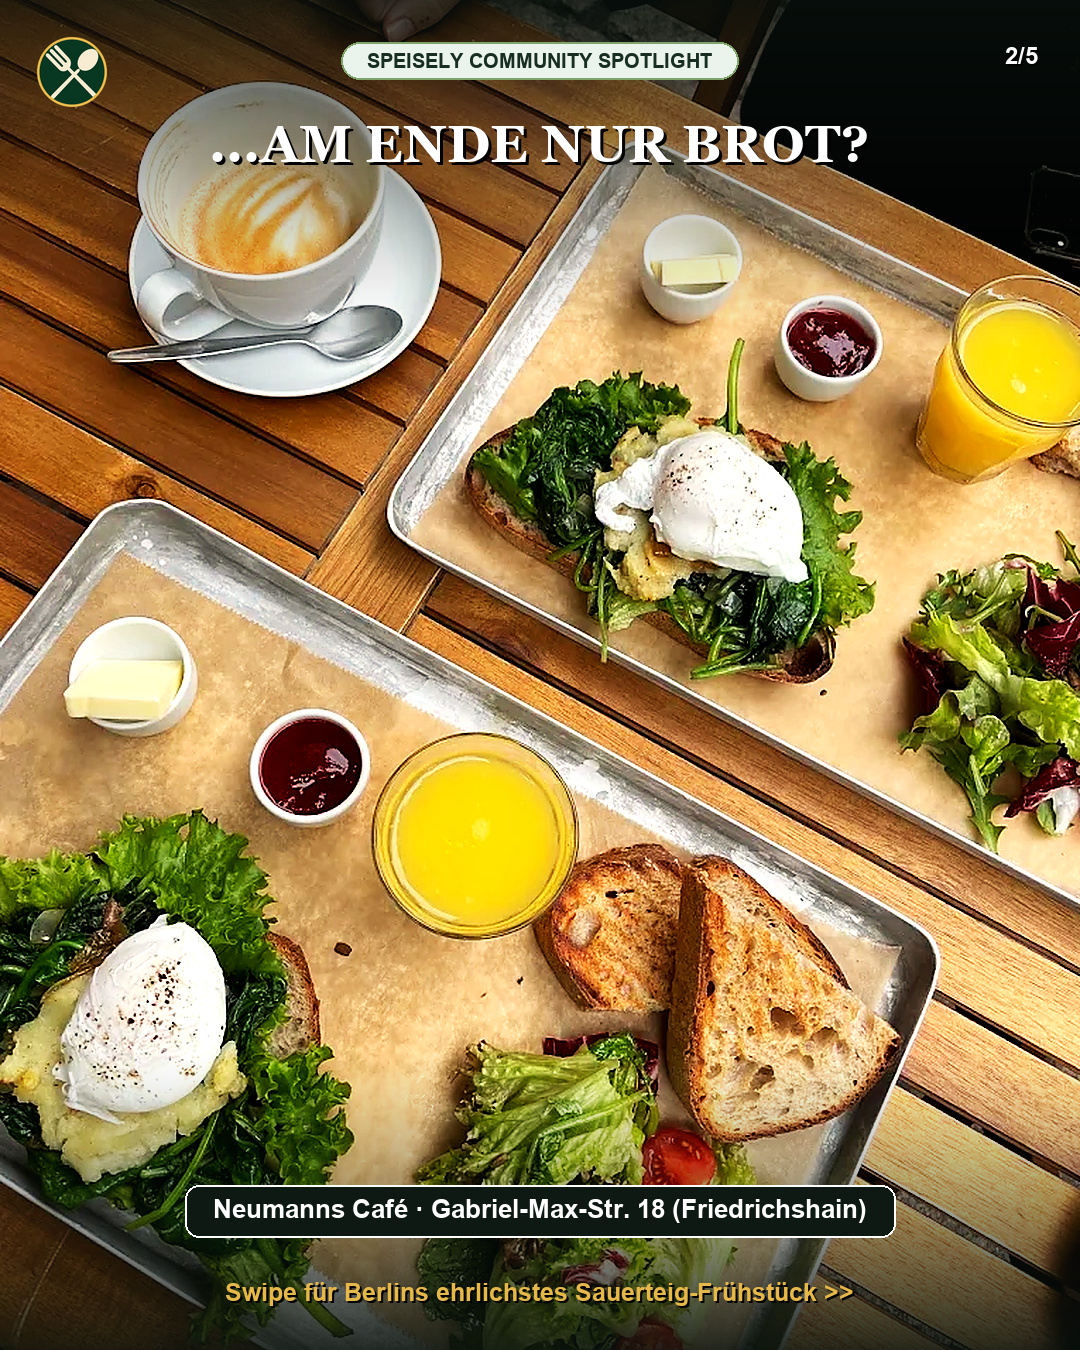
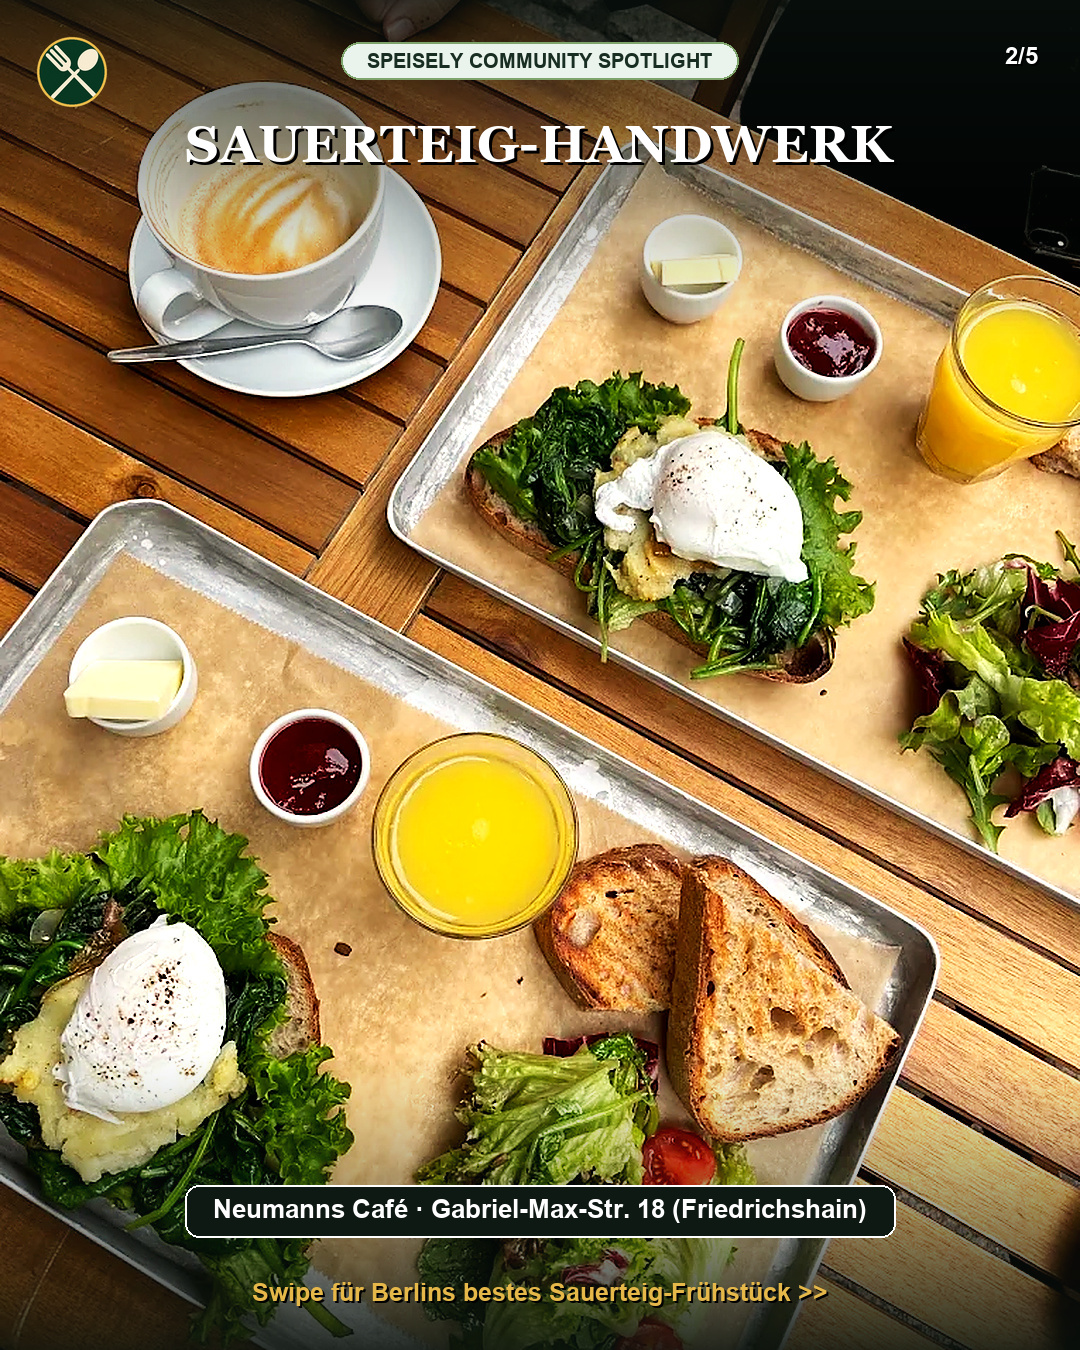
fix(magazin): replace ambiguous 'just bread' headline with positive artisanal sourdough headline

Changed region(s): [[0.1528, 0.0933, 0.825, 0.1244], [0.2139, 0.9333, 0.7944, 0.9644]]

diff --git a/src/routes/magazin.community.neumanns-cafe-berlin.tsx b/src/routes/magazin.community.neumanns-cafe-berlin.tsx
@@ -38,7 +38,7 @@ export const Route = createFileRoute("/magazin/community/neumanns-cafe-berlin")(
       {
         property: "og:title",
         content:
-          "„…am Ende ist es nur Brot“: Frühstück im Neumanns Café Berlin-Friedrichshain — Speisely Community Story",
+          "Neumanns Café Berlin-Friedrichshain: Sauerteig-Bäckerei, Frühstück & Weinbar — Speisely Community Story",
       },
       {
         property: "og:description",
@@ -103,9 +103,9 @@ export const Route = createFileRoute("/magazin/community/neumanns-cafe-berlin")(
             {
               "@type": "Article",
               headline:
-                "„…am Ende ist es nur Brot“: Warum das Neumanns Café am Boxhagener Platz Berlins ehrlichstes Sauerteig-Frühstück serviert",
+                "Neumanns Café Berlin: Warum die eigene Sauerteig-Bäckerei am Boxhagener Platz Friedrichshains bestes Frühstück serviert",
               alternateName:
-                "...in the end, it's just bread: Why Neumanns Café by Boxhagener Platz Serves Berlin's Most Honest Sourdough Breakfast",
+                "Neumanns Café Berlin: Why This Artisanal Sourdough Bakery by Boxhagener Platz Serves Friedrichshain's Finest Breakfast",
               description:
                 "Ein Speisely Community-Frühstücksbericht über das Neumanns Café in Berlin-Friedrichshain (Gabriel-Max-Straße 18): Hausgebackenes Sauerteigbrot, pochierte Eier auf Blattspinat, spanische Tortilla, Karotten-Süßkartoffel-Stulle mit Pekannüssen & Ziegenkäse sowie Kaffee der Andraschko Kaffeemanufaktur.",
               image: [
@@ -269,14 +269,14 @@ function NeumannsCafeBerlinArticle() {
 
           <h1 className="font-display text-3xl sm:text-5xl font-bold text-forest leading-[1.12] tracking-tight mb-5">
             {isDe
-              ? "„…am Ende ist es nur Brot“: Warum das Neumanns Café am Boxhagener Platz Berlins ehrlichstes Sauerteig-Frühstück serviert"
-              : "“...in the end, it’s just bread”: Why Neumanns Café by Boxhagener Platz Serves Berlin’s Most Honest Sourdough Breakfast"}
+              ? "Neumanns Café Berlin: Warum die eigene Sauerteig-Bäckerei am Boxhagener Platz Friedrichshains bestes Frühstück serviert"
+              : "Neumanns Café Berlin: Why This Artisanal Sourdough Bakery by Boxhagener Platz Serves Friedrichshain’s Finest Breakfast"}
           </h1>
 
           <p className="text-lg sm:text-xl text-forest/80 leading-relaxed font-normal mb-6">
             {isDe
-              ? "Sechs Worte Berliner Understatement, hinter denen tagelange Fermentation steckt: In der Gabriel-Max-Straße 18 zeigt das Neumanns jeden Morgen, welche Strahlkraft ein Frühstück entfaltet, wenn das Sauerteigbrot aus der eigenen Backstube stammt – begleitet von pochierten Bio-Eiern auf jungem Blattspinat, spanischer Kartoffel-Tortilla, gerösteten Pekannüssen, französischem Ziegenkäse und Espresso der Berliner Kaffeemanufaktur Andraschko."
-              : "Six words of classic Berlin understatement backed by days of wild fermentation: At Gabriel-Max-Straße 18, Neumanns proves every morning what happens when breakfast is built on sourdough from its own bakery—paired with poached organic eggs over wilted spinach, Spanish potato tortilla, toasted pecans, French chèvre, and espresso roasted in Berlin by Andraschko Kaffeemanufaktur."}
+              ? "Wahres Bäckerhandwerk schmeckt man ab dem ersten Bissen: In der Gabriel-Max-Straße 18 zeigt das Neumanns jeden Morgen, welche Strahlkraft ein Frühstück entfaltet, wenn das langzeitfermentierte Sauerteigbrot aus der eigenen Backstube stammt – begleitet von pochierten Bio-Eiern auf jungem Blattspinat, spanischer Kartoffel-Tortilla, gerösteten Pekannüssen, französischem Ziegenkäse und Espresso der Berliner Kaffeemanufaktur Andraschko."
+              : "True bakery craft is unmistakable from the very first bite: At Gabriel-Max-Straße 18, Neumanns proves every morning how extraordinary breakfast becomes when built on slow-fermented sourdough from its own bakery—paired with poached organic eggs over wilted spinach, Spanish potato tortilla, toasted pecans, French chèvre, and espresso roasted in Berlin by Andraschko Kaffeemanufaktur."}
           </p>
 
           {/* Editorial Disclosure Banner */}
@@ -341,7 +341,7 @@ function NeumannsCafeBerlinArticle() {
                 {isDe ? "Neumanns Berlin: Drei Orte, eine Backstube" : "Neumanns Berlin: Three Concepts, One Bakery"}
               </h2>
               <span className="inline-flex items-center gap-1.5 rounded-full bg-cream px-3.5 py-1 text-xs font-bold text-forest border border-forest/15">
-                „…am Ende ist es nur Brot 🥖“
+                {isDe ? "🥖 Eigene Sauerteig-Bäckerei" : "🥖 In-House Sourdough Bakery"}
               </span>
             </div>
 
@@ -503,17 +503,17 @@ function NeumannsCafeBerlinArticle() {
 
         {/* Main Narrative Body */}
         <div className="mx-auto max-w-3xl px-4 sm:px-6 space-y-12 text-base sm:text-lg leading-relaxed text-forest/90">
-          {/* Section 1: "...am Ende ist es nur Brot" */}
+          {/* Section 1: Artisanal Sourdough Craft */}
           <section className="space-y-4">
             <h2 className="font-display text-2xl sm:text-3xl font-bold text-forest tracking-tight">
               {isDe
-                ? "1. „…am Ende ist es nur Brot“ – Warum echtes Bäckerhandwerk keine großen Worte braucht"
-                : "1. “...in the end, it’s just bread” — Why True Bakery Craft Needs No Grandstanding"}
+                ? "1. Handwerk aus der eigenen Backstube: Wo großer Geschmack beim Sauerteig beginnt"
+                : "1. Craft from Their Own Bakery: Where Extraordinary Breakfast Begins with Wild Sourdough"}
             </h2>
             <p>
               {isDe
-                ? "Wer in Berlin-Friedrichshain frühstücken geht, hat die Wahl zwischen unzähligen Cafés rund um den Boxhagener Platz. Doch während viele Orte auf kurzlebige Show-Effekte setzen, liest man beim Neumanns in der Gabriel-Max-Straße 18 ein Motto, das trockener und sympathischer kaum sein könnte: „…am Ende ist es nur Brot 🥖“."
-                : "Anyone heading out for breakfast in Berlin-Friedrichshain is spoiled for choice around Boxhagener Platz. Yet while plenty of spots chase fleeting visual gimmicks, Neumanns at Gabriel-Max-Straße 18 greets you with a motto of dry, disarming Berlin modesty: “...in the end, it’s just bread 🥖”."}
+                ? "Wer in Berlin-Friedrichshain frühstücken geht, hat die Wahl zwischen unzähligen Cafés rund um den Boxhagener Platz. Doch während viele Orte auf kurzlebige Show-Effekte setzen, geht das Neumanns in der Gabriel-Max-Straße 18 den ehrlichen Weg: Während das Team sein Handwerk mit sympathischem Berliner Understatement („…am Ende ist es nur Brot“) beschreibt, schmeckt man ab dem ersten Bissen, wie viel Hingabe in jedem einzelnen Laib steckt."
+                : "Anyone heading out for breakfast in Berlin-Friedrichshain is spoiled for choice around Boxhagener Platz. Yet while plenty of spots chase fleeting visual gimmicks, Neumanns at Gabriel-Max-Straße 18 focuses on pure artisanal substance: though the bakers jokingly downplay their craft with charming Berlin modesty, one bite reveals the extraordinary dedication behind every loaf."}
             </p>
             <p>
               {isDe

diff --git a/src/routes/community.index.tsx b/src/routes/community.index.tsx
@@ -290,7 +290,7 @@ function CommunityPage() {
               <div>
                 <div className="relative aspect-[16/10] overflow-hidden bg-black/5">
                   <img
-                    src="/magazin/neumanns-cafe-berlin/05_poached_eggs_spinach_hd.jpg?v=2"
+                    src="/magazin/neumanns-cafe-berlin/05_poached_eggs_spinach_hd.jpg?v=3"
                     alt={
                       isDe
                         ? "Neumanns Café am Boxhagener Platz in Berlin-Friedrichshain: Hausgebackenes Sauerteigbrot, pochierte Eier & Andraschko Kaffee"
@@ -317,8 +317,8 @@ function CommunityPage() {
                   </span>
                   <h3 className="font-display text-xl sm:text-2xl font-bold text-forest group-hover:text-[#9E6D18] transition-colors leading-snug">
                     {isDe
-                      ? "Neumanns Café: „…am Ende ist es nur Brot“ – Das schönste Frühstück am Boxhagener Platz"
-                      : "Neumanns Café: “...in the end, it’s just bread” — Artisan Sourdough Breakfast at Boxhagener Platz"}
+                      ? "Neumanns Café Berlin: Handwerkliches Sauerteig-Frühstück am Boxhagener Platz"
+                      : "Neumanns Café Berlin: Artisanal Sourdough Breakfast & Bakery by Boxhagener Platz"}
                   </h3>
                   <p className="mt-3 text-sm text-forest/75 line-clamp-3 leading-relaxed">
                     {isDe
